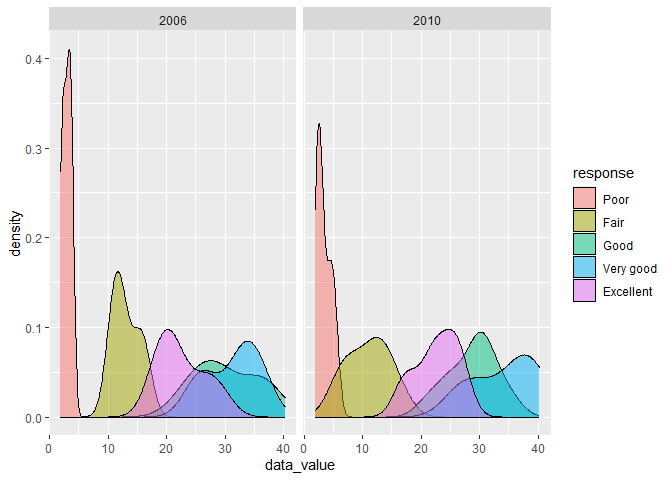
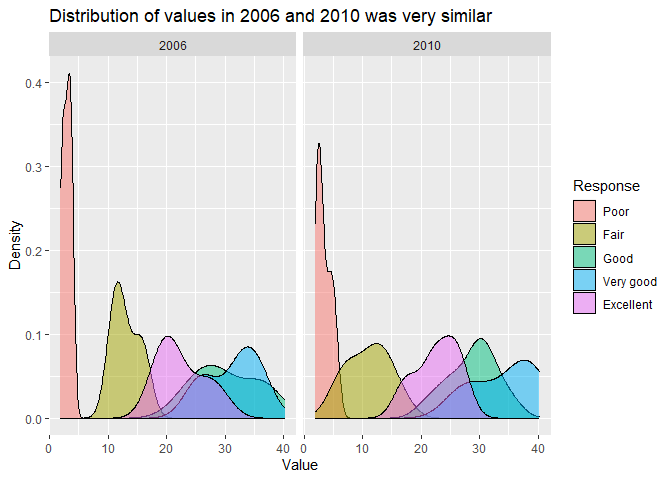
Finished Problem 3 + homework.

diff --git a/p8105_hw3_geg2145.md b/p8105_hw3_geg2145.md
@@ -7,13 +7,23 @@ Gustavo Garcia-Franceschini
 
 ``` r
 data("instacart")
+head(instacart, 4) %>%
+  knitr::kable()
 ```
 
-The goal is to do some exploration of this dataset. To that end, write a
-short description of the dataset, noting the size and structure of the
-data, describing some key variables, and giving illustrative examples of
-observations. Then, do or answer the following (commenting on the
-results of each):
+| order_id | product_id | add_to_cart_order | reordered | user_id | eval_set | order_number | order_dow | order_hour_of_day | days_since_prior_order | product_name                                  | aisle_id | department_id | aisle                | department |
+|---------:|-----------:|------------------:|----------:|--------:|:---------|-------------:|----------:|------------------:|-----------------------:|:----------------------------------------------|---------:|--------------:|:---------------------|:-----------|
+|        1 |      49302 |                 1 |         1 |  112108 | train    |            4 |         4 |                10 |                      9 | Bulgarian Yogurt                              |      120 |            16 | yogurt               | dairy eggs |
+|        1 |      11109 |                 2 |         1 |  112108 | train    |            4 |         4 |                10 |                      9 | Organic 4% Milk Fat Whole Milk Cottage Cheese |      108 |            16 | other creams cheeses | dairy eggs |
+|        1 |      10246 |                 3 |         0 |  112108 | train    |            4 |         4 |                10 |                      9 | Organic Celery Hearts                         |       83 |             4 | fresh vegetables     | produce    |
+|        1 |      49683 |                 4 |         0 |  112108 | train    |            4 |         4 |                10 |                      9 | Cucumber Kirby                                |       83 |             4 | fresh vegetables     | produce    |
+
+**The dataset has 1384617 rows and 15 variables, where every row is a
+product ordered. Every product ordered has an `order_id` (it is possible
+for multiple products to be bought as part of the same order) a
+`product_name` and an `aisle` name. We can also see the day of the week
+and hour the order was processed (`order_dow` and `order_hour_of_day`,
+respectively).**
 
 How many aisles are there, and which aisles are the most items ordered
 from?
@@ -34,6 +44,10 @@ instacart %>%
     ## 3 packaged vegetables fruits         78493
     ## 4 yogurt                             55240
 
+**There are 134 different aisles, with most of the orders being in the
+“fresh vegetables”, “fresh fruits”, “packaged vegetables fruits” and
+“yogurt” aisles.**
+
 Make a plot that shows the number of items ordered in each aisle,
 limiting this to aisles with more than 10000 items ordered. Arrange
 aisles sensibly, and organize your plot so others can read it.
@@ -46,10 +60,21 @@ instacart %>%
   filter(items_ordered > 10000) %>%
   mutate(aisle = fct_reorder(aisle, items_ordered)) %>%
   ggplot() + geom_point(aes(x = aisle, y = items_ordered)) +
-  theme(axis.text.x = element_text(angle = 45, hjust = 1))
+  theme(axis.text.x = element_text(angle = 45, hjust = 1)) +
+  labs(title= "Best selling aisles sell food and perishables",
+       x="Aisle", "Items Ordered")
 ```
 
 ![](p8105_hw3_geg2145_files/figure-gfm/p1_plot-1.png)<!-- -->
+
+**We can also see here how most of the orders are from the “fresh
+vegetables”, “fresh fruits”, “packaged vegetables fruits” and “yogurt”
+aisles. We can also see “butter”, “oils and vinegars” and “dry pasta”
+are the aisles least bought from. We also see how most of the aisles
+(about two thirds) have less than 20,000 orders, and then the number of
+orders increases exponentially. The aisles with the most orders usually
+hold food that is consumed often (like water) and/or goes bad easily
+(like milk).**
 
 Make a table showing the three most popular items in each of the aisles
 “baking ingredients”, “dog food care”, and “packaged vegetables fruits”.
@@ -83,6 +108,10 @@ instacart %>%
 | packaged vegetables fruits | Organic Raspberries                           |          5546 |    2 |
 | packaged vegetables fruits | Organic Blueberries                           |          4966 |    3 |
 
+**The best selling baking ingredient is light brown sugar, while the
+best selling packaged vegetables and fruits is organic baby spinach. The
+three highest selling dog food care times have similar order counts.**
+
 Make a table showing the mean hour of the day at which Pink Lady Apples
 and Coffee Ice Cream are ordered on each day of the week; format this
 table for human readers (i.e. produce a 2 x 7 table).
@@ -105,6 +134,10 @@ instacart %>%
 |:-----------------|---------:|---------:|---------:|---------:|---------:|---------:|---------:|
 | Coffee Ice Cream | 13.77419 | 14.31579 | 15.38095 | 15.31818 | 15.21739 | 12.26316 | 13.83333 |
 | Pink Lady Apples | 13.44118 | 11.36000 | 11.70213 | 14.25000 | 11.55172 | 12.78431 | 11.93750 |
+
+**Coffee Ice Cream is bought in the afternoon (around lunchtime)
+regardless of the day, while pink lady apples are bought before noon on
+Mondays, Tuesdays, Thursdays and Saturdays.**
 
 # Problem 2
 
@@ -140,44 +173,53 @@ brfss_smart2010 %>%
   filter(year == 2002) %>%
   group_by(locationabbr) %>%
   summarize(unique_locations = length(unique(locationdesc))) %>%
-  filter(unique_locations >= 7)
+  filter(unique_locations >= 7) %>%
+  knitr::kable(caption = "States observed at 7 or more locations in 2002")
 ```
 
-    ## # A tibble: 6 × 2
-    ##   locationabbr unique_locations
-    ##   <chr>                   <int>
-    ## 1 CT                          7
-    ## 2 FL                          7
-    ## 3 MA                          8
-    ## 4 NC                          7
-    ## 5 NJ                          8
-    ## 6 PA                         10
+| locationabbr | unique_locations |
+|:-------------|-----------------:|
+| CT           |                7 |
+| FL           |                7 |
+| MA           |                8 |
+| NC           |                7 |
+| NJ           |                8 |
+| PA           |               10 |
+
+States observed at 7 or more locations in 2002
 
 ``` r
 brfss_smart2010 %>%
   filter(year == 2010) %>%
   group_by(locationabbr) %>%
   summarize(unique_locations = length(unique(locationdesc))) %>%
-  filter(unique_locations >= 7)
+  filter(unique_locations >= 7)%>%
+  knitr::kable(caption = "States observed at 7 or more locations in 2010")
 ```
 
-    ## # A tibble: 14 × 2
-    ##    locationabbr unique_locations
-    ##    <chr>                   <int>
-    ##  1 CA                         12
-    ##  2 CO                          7
-    ##  3 FL                         41
-    ##  4 MA                          9
-    ##  5 MD                         12
-    ##  6 NC                         12
-    ##  7 NE                         10
-    ##  8 NJ                         19
-    ##  9 NY                          9
-    ## 10 OH                          8
-    ## 11 PA                          7
-    ## 12 SC                          7
-    ## 13 TX                         16
-    ## 14 WA                         10
+| locationabbr | unique_locations |
+|:-------------|-----------------:|
+| CA           |               12 |
+| CO           |                7 |
+| FL           |               41 |
+| MA           |                9 |
+| MD           |               12 |
+| NC           |               12 |
+| NE           |               10 |
+| NJ           |               19 |
+| NY           |                9 |
+| OH           |                8 |
+| PA           |                7 |
+| SC           |                7 |
+| TX           |               16 |
+| WA           |               10 |
+
+States observed at 7 or more locations in 2010
+
+**While only 6 states where observed in seven or more locations in 2002
+(Connecticut, Florida, Massachusetts, North Carolina, New Jersey and
+Pennsylvania), 14 states did the same in 2010 (including the same 6 that
+completed the feature in 2002).**
 
 - Construct a dataset that is limited to Excellent responses, and
   contains, year, state, and a variable that averages the data_value
@@ -193,7 +235,9 @@ brfss_smart2010 %>%
   summarize(mean_value = mean(data_value))  %>%
   arrange(desc(year)) %>%
   ggplot() + geom_line(aes(x = year, y = mean_value,
-                            group = locationabbr))
+                            group = locationabbr)) +
+  labs(y = "Mean values across locations", x= "Year", 
+       title = "There is a decrease in value between 2002 and 2005 before stabilizing")
 ```
 
     ## `summarise()` has grouped output by 'year'. You can override using the
@@ -202,6 +246,10 @@ brfss_smart2010 %>%
     ## Warning: Removed 3 rows containing missing values (`geom_line()`).
 
 ![](p8105_hw3_geg2145_files/figure-gfm/p2_spaghetti_plot-1.png)<!-- -->
+
+**The general trend for all states is that the mean value across
+locations decreased from 2002 to 2005, but then stabilized from then to
+2010.**
 
 - Make a two-panel plot showing, for the years 2006, and 2010,
   distribution of data_value for responses (“Poor” to “Excellent”) among
@@ -212,10 +260,18 @@ brfss_smart2010 %>%
   filter(locationabbr == "NY" & (year == 2006 | year == 2010))  %>%
   mutate(year = factor(year, levels = c("2006", "2010")))  %>%
   ggplot() + geom_density(aes(x = data_value, fill = response), alpha= 0.5) +
-  facet_grid( ~ year)
+  facet_grid( ~ year) + 
+  labs(x= "Value", y = "Density", 
+       title = "Distribution of values in 2006 and 2010 was very similar", 
+       fill = "Response")
 ```
 
 ![](p8105_hw3_geg2145_files/figure-gfm/p2_NY_plot-1.png)<!-- -->
+
+**In both 2006 and 2010, the lowest values correspond to “Poor”
+responses, while “Fair” and “Excellent” responses follow. In both years,
+“Good” and “Very Good” responses follow. In 2010, there are less “Poor”
+responses than in 2006.**
 
 # Problem 3
 
@@ -298,10 +354,20 @@ df_dem %>%
 
 ``` r
 df_dem %>%
-  ggplot() + geom_bar(aes(x = education, fill = sex))
+  ggplot() + geom_bar(aes(x = education, fill = sex)) + 
+  labs(y = "Count", x = "Education", 
+       title = "Most of the subjects have more than high school education",
+       subtitle = "Males and females are evenly distributed in two of the three education levels")
 ```
 
 ![](p8105_hw3_geg2145_files/figure-gfm/p3_sex_education-1.png)<!-- -->
+
+**We can see from the bar plot that most of the subjects in the study
+had more than a high school education (about 50% of the study). Although
+the distribution of sex in the groups of “less than high school” and
+“more than high school” education is pretty much even, the study had
+twelve more males with a “high school equivalent” than females with the
+same level of education.**
 
 Traditional analyses of accelerometer data focus on the total activity
 over the day. Using your tidied dataset, aggregate across minutes to
@@ -318,7 +384,9 @@ df_mims %>%
                             color = sex), alpha = .5) +
   geom_smooth(aes(y = total_activity, x = age, 
                             color = sex),se = FALSE) +
-  facet_grid( ~ education)
+  facet_grid( ~ education) + 
+  labs(x = "Age", y = "Total activity", 
+       title = "Male subjects were more active only among those without HS education", color = "Sex")
 ```
 
     ## `summarise()` has grouped output by 'seqn', 'education', 'age'. You can
@@ -326,6 +394,17 @@ df_mims %>%
     ## `geom_smooth()` using method = 'loess' and formula = 'y ~ x'
 
 ![](p8105_hw3_geg2145_files/figure-gfm/p3_age_activity_plot-1.png)<!-- -->
+
+**In this plot, we see that female subjects had higher activity levels
+regardless of age when the subjects had either a high school education,
+or higher. This includes a very high difference between female and male
+subjects with a high school education and at around 40 years of age, and
+among those 60 years of age and with a level of education greater than
+high school. This trend is not true for subjects with less than high
+school, where males seemed to be more active. In general, those with an
+education greater than high school had constant activity levels, across
+age values, while the other education levels showed a steeper decline
+once subjects got to an older age.**
 
 Accelerometer data allows the inspection activity over the course of the
 day. Make a three-panel plot that shows the 24-hour activity time
@@ -339,9 +418,21 @@ df_mims %>%
                             color = sex), alpha = .05, size = 0.5)+
   geom_smooth(aes(y = mims, x = minute, 
                             color = sex),se = FALSE) +
-  facet_grid( ~ education)
+  facet_grid( ~ education) +
+  labs(x = "Minute of the day", y= "Activity level (MIMS)",
+       title = "Subjects exhibited similar trends regardless of education level or sex",
+       color = "Sex")
 ```
 
     ## `geom_smooth()` using method = 'gam' and formula = 'y ~ s(x, bs = "cs")'
 
 ![](p8105_hw3_geg2145_files/figure-gfm/p3_24hr_plot-1.png)<!-- -->
+
+**In the plot, we can see that the subjects exhibited similar activity
+levels regardless of their level of education or sex: almost no activity
+at around 4 am, with most activity starting at around 5 am and the peak
+activity time being the usual 8 am to 8 pm. The biggest difference
+(albeit small) difference can be seen between female and male subjects
+with an education level greater than high school, where female subjects
+remained more active than male subjects throughout the day (on similar
+trends).**
